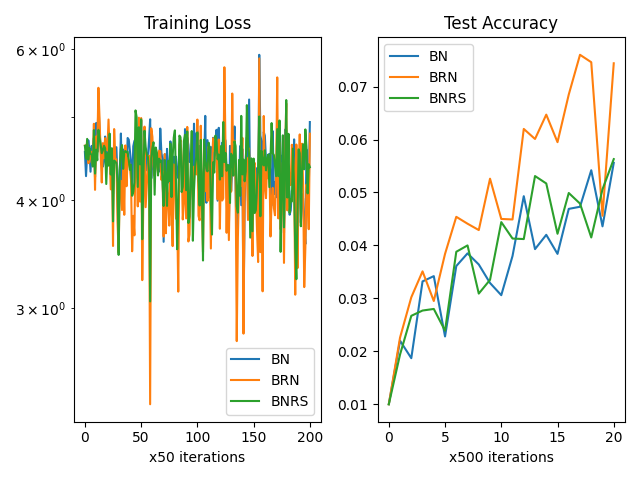
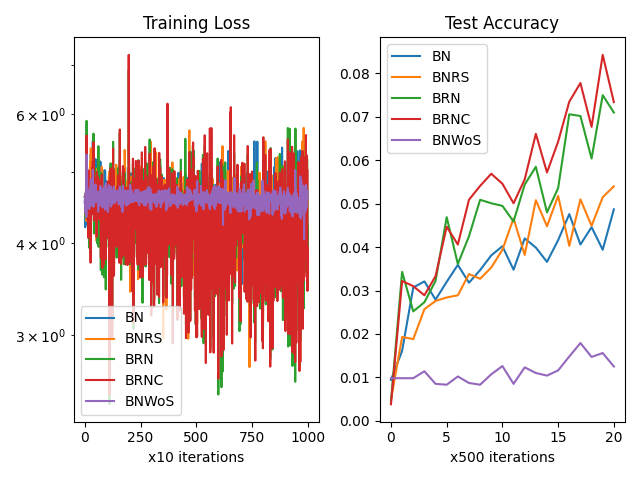
Update

diff --git a/README.md b/README.md
@@ -12,9 +12,17 @@ BN is the same as the PyTorch implementation and uses batch statistics for norma
 
 BNRS always uses running statistics during both training and inference, and only uses batch statistics to update running statistics without computing any gradients.
 
-### Method 3: [Batch ReNormalization (BRN)](https://arxiv.org/pdf/1702.03275.pdf)
+### Method 3: [Batch ReNormalization w/o Clipping (BRN)](https://arxiv.org/pdf/1702.03275.pdf)
 
-BRN appears to use running statistics in both training and inference, but it also employs the gradients of batch statistics during training.
+BRN appears to use running statistics in both training and inference, but it also employs the gradients of batch statistics during training. This version does not implement the value clipping for $r$ and $d$.
+
+### Method 4: [Batch ReNormalization w/ Clipping (BRNC)](https://arxiv.org/pdf/1702.03275.pdf)
+
+BRNC is original version introduced in the Batch ReNormalization paper, with value clipping for $r$ and $d$.
+
+### Method 5: BatchNorm without Synchronization across devices (BRWoS)
+
+BRWoS mimics the behavior of batch norm used with data parallel, where the batch stats is computed independently for each device and only the running stats on the first device will be kept to the end.
 
 ## Results
 
